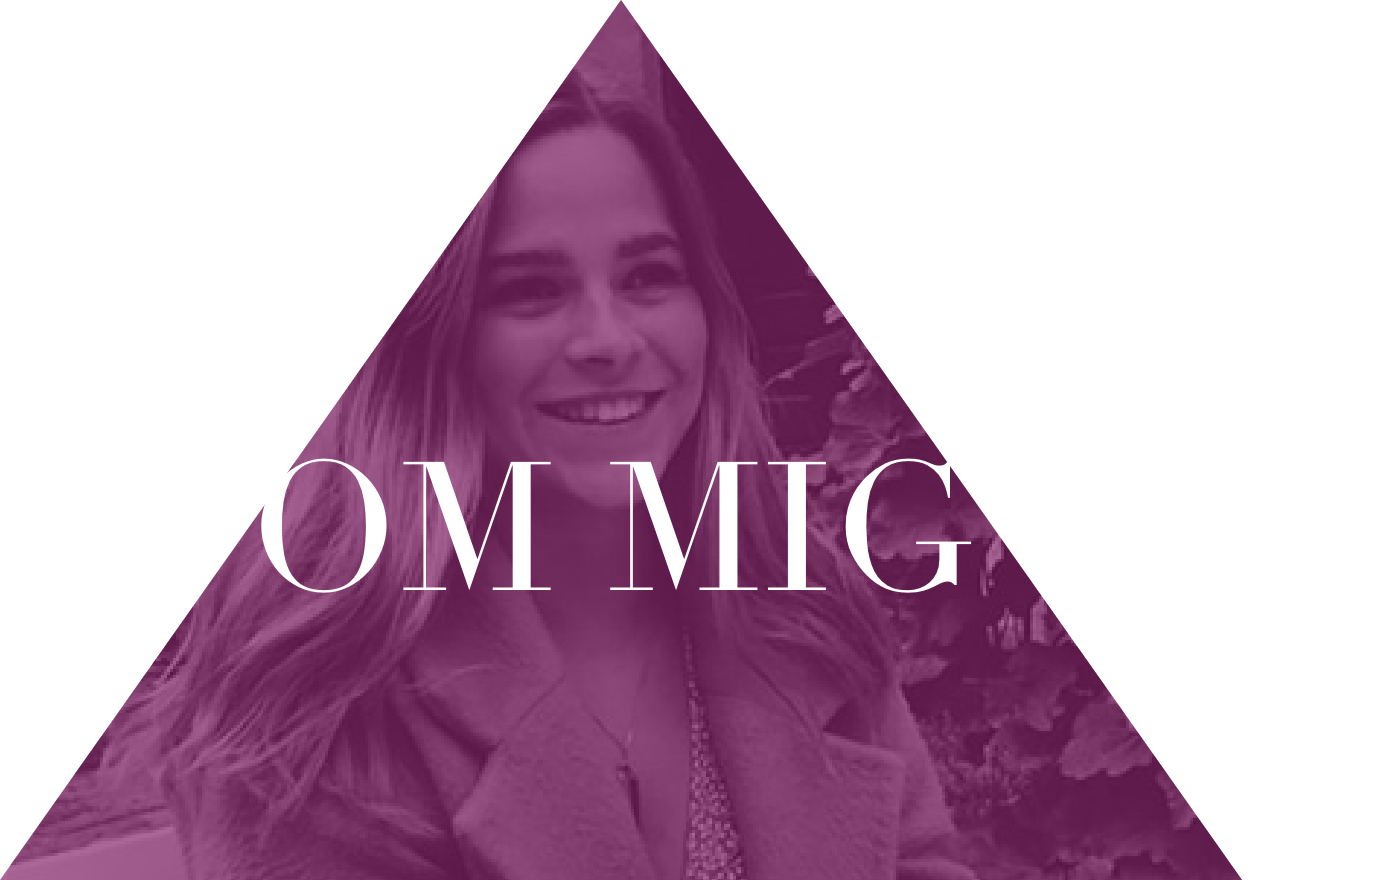
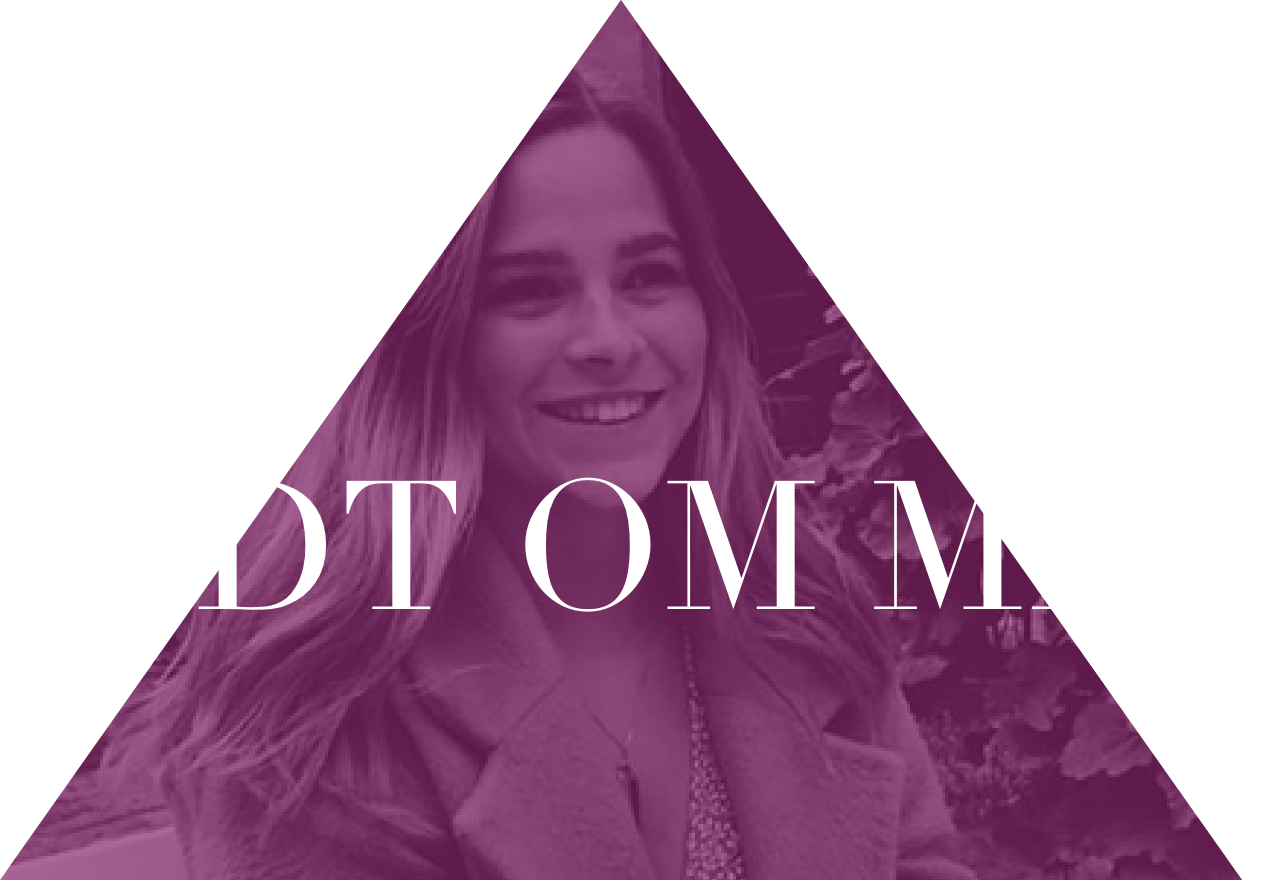
forside

diff --git a/style.css b/style.css
@@ -249,24 +249,35 @@ section {
 
 
     #baggrund_forside {
-        background-image: url(billeder/1x/Aktiv%204.png);
+        background-image: url(billeder/baggrund_ny__Tegnebr%C3%A6t%201.png);
         width: 100vw;
         height: 47vw;
     }
 
-    #ommig_link,
-    #portfolio_link {
-        display: grid;
-        justify-content: center;
+    #txt h3 {
+        text-align: center;
+        color: #801A64;
     }
 
+    #ommig_link,
+    #portfolio_link {
+        width: 100%;
+    }
+
+
     #trekant1 {
-        width: 800px;
+        width: 60%;
+        margin-left: 20vw;
+        margin-right: 20vw;
+        margin-top: 5vw;
+        margin-bottom: 10vw;
+
     }
 
     #trekant2 {
-        width: 700px;
-
+        width: 60%;
+        margin-left: 20vw;
+        margin-right: 20vw;
     }
 
     /*NAVIGATION*/
@@ -279,6 +290,24 @@ section {
         height: 30px;
         width: 300px;
         background-color: black;
+
+        position: fixed;
+        /* Set the navbar to fixed position */
+        top: 0;
+        /* Position the navbar at the top of the page */
+        width: 100%;
+        /* Full width */
+    }
+
+    .content {
+        padding: 16px;
+    }
+
+    /* The sticky class is added to the navbar with JS when it reaches its scroll position */
+    .sticky {
+        position: fixed;
+        top: 0;
+        width: 100%;
     }
 
     ul {

diff --git a/index.html b/index.html
@@ -25,21 +25,28 @@
     </header>
 
     <main>
-        <section id="baggrund_forside">
+        <section id="baggrund_forside"></section>
 
+        <section id="txt">
+            <h3>Scroll ned ↓</h3>
         </section>
 
 
         <section id="ommig_link">
-            <a href="ommig.html">
-                <img id="trekant1" src="ommig_forside.png" alt="ommig">
-            </a>
+            <div class="zoom">
+                <a href="ommig.html">
+                    <img id="trekant1" src="billeder/ommig_bred-02.png" alt="ommig">
+                </a>
+            </div>
         </section>
 
         <section id="portfolio_link">
-            <a href="portfolio.html">
-                <img id="trekant2" src="portfolio_forside1.png" alt="portfolio">
-            </a>
+            <div class="zoom">
+
+                <a href="portfolio.html">
+                    <img id="trekant2" src="billeder/portfoliobred-04.png" alt="portfolio">
+                </a>
+            </div>
         </section>
 
 
@@ -59,4 +66,6 @@
     </footer>
     <script src="script.js"></script>
 
-</body></html>
+</body>
+
+</html>

diff --git a/script.js b/script.js
@@ -15,3 +15,22 @@ function toggleMenu() {
         document.querySelector("#menuknap").textContent = "X";
     }
 }
+
+// When the user scrolls the page, execute myFunction
+window.onscroll = function () {
+    myFunction()
+};
+
+// Get the navbar
+var navbar = document.getElementById("#menu");
+
+// Get the offset position of the navbar
+var sticky = navbar.offsetTop;
+
+// Add the sticky class to the navbar when you reach its scroll position. Remove "sticky" when you leave the scroll position
+function myFunction() {
+    if (window.pageYOffset >= sticky) {
+        navbar.classList.add("sticky")
+    } else {
+        navbar.classList.remove("sticky");
+    }
